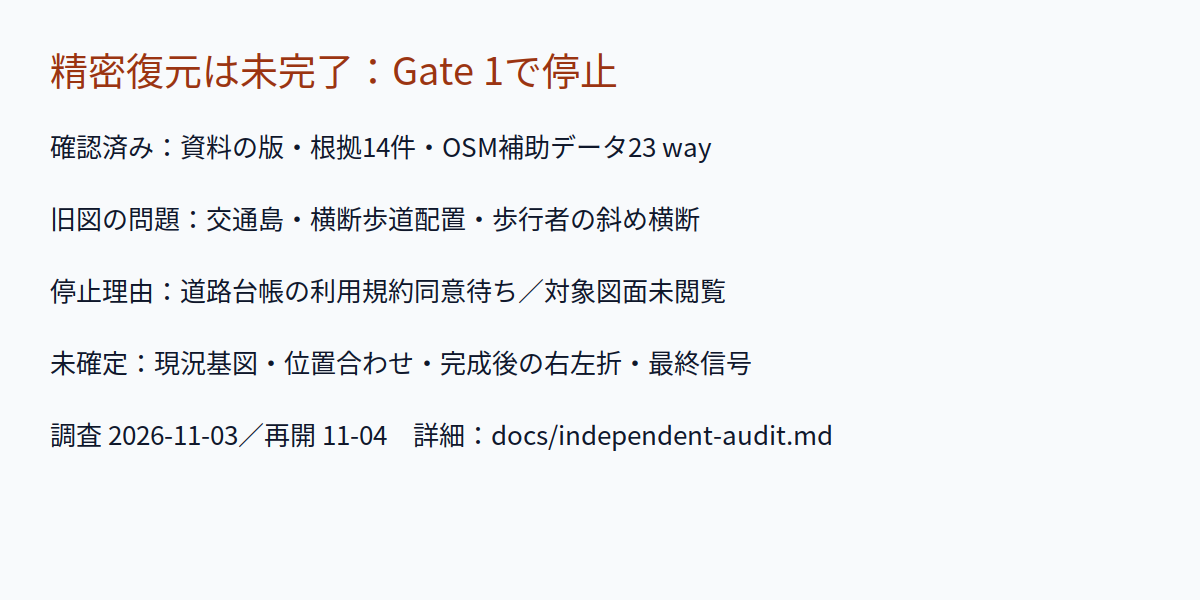
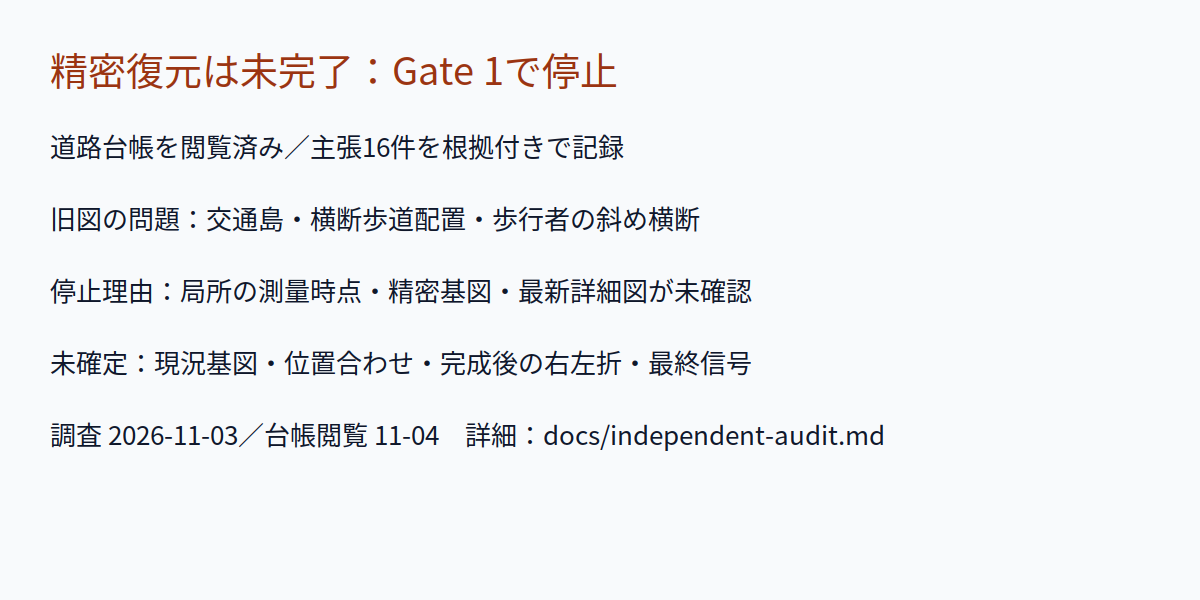
Record approved road-ledger inspection and updated source blockers

Changed region(s): [[0.0308, 0.21, 0.6167, 0.27], [0.1542, 0.45, 0.6475, 0.51], [0.2158, 0.69, 0.74, 0.75]]

diff --git a/scripts/build_audit.py b/scripts/build_audit.py
@@ -24,11 +24,11 @@ def main():
     if errors:raise ValueError(errors)
     OUT.mkdir(exist_ok=True)
     notice('evidence-status','精密復元は未完了：Gate 1で停止',[
-        '確認済み：資料の版・根拠14件・OSM補助データ23 way',
+        '道路台帳を閲覧済み／主張16件を根拠付きで記録',
         '旧図の問題：交通島・横断歩道配置・歩行者の斜め横断',
-        '停止理由：道路台帳の利用規約同意待ち／対象図面未閲覧',
+        '停止理由：局所の測量時点・精密基図・最新詳細図が未確認',
         '未確定：現況基図・位置合わせ・完成後の右左折・最終信号',
-        '調査 2026-11-03／再開 11-04　詳細：docs/independent-audit.md'
+        '調査 2026-11-03／台帳閲覧 11-04　詳細：docs/independent-audit.md'
     ],'partial')
     notice('05-signal-phases-2018','旧信号模式図を撤回しました',[
         '原資料にない斜め横断と、不整合のある車両矢印を削除。',
@@ -42,6 +42,6 @@ def main():
         '基準点・変換係数・残差は未計測。誤差ゼロではありません。',
         '詳細：docs/independent-audit.md／data/gates.json'
     ],'withdrawn')
-    (OUT/'index.html').write_text('''<!doctype html><html lang="ja"><meta charset="utf-8"><meta name="viewport" content="width=device-width"><title>二ツ橋1号交差点：検証状況</title><style>body{font-family:system-ui;margin:24px;max-width:1200px}img{width:100%;height:auto}p{line-height:1.7}</style><h1>精密復元は未完了</h1><p>道路台帳の対象図面は未閲覧です。以下は検証状況と旧図の撤回通知です。</p><p><a href="../independent-audit.md">調査記録</a> ／ <a href="../movement-review.md">動線・信号</a></p>'''+''.join(f'<p><a href="{n}.svg"><img src="{n}.png" alt="{label}"></a></p>' for n,label in [('evidence-status','検証状況'),('05-signal-phases-2018','信号図撤回'),('06-official-2026-schematic','完成図撤回')])+ '</html>')
+    (OUT/'index.html').write_text('''<!doctype html><html lang="ja"><meta charset="utf-8"><meta name="viewport" content="width=device-width"><title>二ツ橋1号交差点：検証状況</title><style>body{font-family:system-ui;margin:24px;max-width:1200px}img{width:100%;height:auto}p{line-height:1.7}</style><h1>精密復元は未完了</h1><p>道路台帳は閲覧済みですが、精密基図と最新詳細図は未確定です。以下は検証状況と旧図の撤回通知です。</p><p><a href="../independent-audit.md">調査記録</a> ／ <a href="../movement-review.md">動線・信号</a></p>'''+''.join(f'<p><a href="{n}.svg"><img src="{n}.png" alt="{label}"></a></p>' for n,label in [('evidence-status','検証状況'),('05-signal-phases-2018','信号図撤回'),('06-official-2026-schematic','完成図撤回')])+ '</html>')
 
 if __name__=='__main__':main()

diff --git a/docs/road-ledger-review.md b/docs/road-ledger-review.md
@@ -1,0 +1,37 @@
+# 道路台帳閲覧後の確認 — 2026-11-04
+
+## 実施内容
+
+ユーザー承認を受け、よこはまのみち利用条件へ同意した。境界調査図入口（mid=17）から表示マップを「平面図・補正図・別図・補正別図」（mid=67）へ切替。同じ条件のレイヤー選択に伴う同意後、公共施設「三ツ境支援学校」の検索結果から地図へ入れた。前回の空白検索を回避するための不正な経路や内部APIは使用していない。
+
+## 再現できる参照位置
+
+| 表示 | UIから確認した位置／URL |
+|---|---|
+| 平面図・交差点北寄り | https://wwwm.city.yokohama.lg.jp/yokohama/Map?mid=67&mps=500&mtp=ykmichi&mpx=139.4964&mpy=35.47055&gprj=3 |
+| 平面図・駅側／地下道階段付近 | https://wwwm.city.yokohama.lg.jp/yokohama/Map?mid=67&mps=500&mtp=ykmichi&mpx=139.4968047761013&mpy=35.47026909644335&gprj=3 |
+| 補正図 | 北寄り表示で補正図を選択。URLのmclは220,50,50,50 |
+| 別図 | 北寄り表示で別図を選択。mclは230,60,60,60 |
+| 別図補正図 | 駅側表示で別図補正図を選択。mclは240,70,70,70 |
+
+表示は1/500。これは画面の縮尺設定で、測定精度や印刷精度の保証ではない。地図中心の緯度経度も新たな測量基準点ではない。
+
+## 目視確認した事実と限界
+
+平面図には、中原街道に沿う細長い道路構造、南端で曲がる地上道路、相模鉄道の表示、歩行者専用道路の文字と階段記号が描かれている。これにより、車道本線・地上道路・歩行者経路・鉄道を別構造として照合する方針を支持できる。ただし、線の重なりだけで上下関係・進入規制を確定していない。
+
+補正図・別図・別図補正図は、読み込み表示が消えた後も、今回の参照範囲では枠線以外の道路線を確認できなかった。「図面が存在しない」「未改良である」とは結論しない。図郭全体、配信状態、資料の存在は別途確認が必要。
+
+台帳画面には対象局所の測量・補正年月が表示されなかった。サービス更新時点（E3）だけで、2026年工事の完成・切替を反映した図と認定しない。新設道路と台帳の接続対応、交通島改良後の輪郭は未確定。
+
+## 市の用語説明から得た制約
+
+E11の公式説明は、平面図が測量時の現況を記録する一方、その後に現況が変わる場合があるとしている。区域線図は管理区域を示す別資料。別図は、同じ位置に別の道路認定がある場合の図であり、任意の立体構造を全て収録する保証ではない。
+
+また、市はこのシステムで正確な縮尺表示ができず、画面から現況幅員を確認できないとしている。画面pxと縮尺ラベルだけから道路縁座標・幅員・曲率を精密測定する方法は採用しない。
+
+## Gate判定
+
+**閲覧障害と同意待ちは解消。Gate 1は引き続き未通過。** 資料の時点を確認した座標基図、独立照合できる最新現況、新設道路接続部の最新詳細計画が未取得。測量精度のある完成図を描く段階へは進めない。
+
+今回は公式地図の画像・トレース・画面から読み取った座標列を公開保存していない。閲覧への同意は複製・使用の承認と区別する。問い合わせ事項は [source-request.md](source-request.md)。

diff --git a/sources/source-register.md b/sources/source-register.md
@@ -1,6 +1,6 @@
 # Source register
 
-Last reviewed: 2026-11-03 (independent audit; see dated status below)
+Last reviewed: 2026-11-04 (independent audit; see dated status below)
 
 Authoritative register of sources to check before making claims about the Futatsubashi / Mitsukyo No.1 intersection and the first-phase land-readjustment works.
 
@@ -279,7 +279,7 @@ This section supersedes older “current” labels above. A listed source is not
 | E3 | Smartphone update page says 2026-10-15 | Service update date ≠ survey date at this site |
 | E4 | Planning lines 2026-04-03; road-ledger layer creation 2025-10-03 | R-Mappy layers are not necessarily as fresh as よこはまのみち |
 | E2 | Desktop selector blank; one reload gives `MapWithCtModel` error; smartphone search also empty | Not classified as a bot block |
-| E8 | Direct road-ledger information entrance reached; “同意する” not clicked | Explicit terms-acceptance confirmation required; map contents not read |
+| E8/E10 | Terms accepted 2026-11-04; target plan layer mid=67 visually read | Local survey/revision date and precise base not established |
 | F4 | Fresh bounded OSM API response obtained | Snapshot corroboration only; source edit timestamps are not site survey dates |
 | F5 | GSI standard tiles inspected transiently | New road absent in this tile sample; cannot certify 2026 construction state |
 
@@ -295,3 +295,13 @@ This section supersedes older “current” labels above. A listed source is not
 | F7 | [OSM licence](https://www.openstreetmap.org/copyright) | © OpenStreetMap contributors / ODbL |
 
 No official/GSI imagery or traced official geometry is committed in this audit. No permission to reproduce road-ledger linework is assumed from viewing permission. E8's map type is boundary-survey information within よこはまのみち; selecting the road-ledger plan layer is still required after access.
+
+
+## 2026-11-04 follow-up (supersedes terms-wait status)
+
+E8 terms accepted under user approval. E10 target road-ledger plan visually inspected; no map imagery or traced geometry published. Plan/correction/separate/separate-correction views checked within stated viewports. Blank correction views do not prove source absence. See [ledger review](../docs/road-ledger-review.md).
+
+- E10: https://wwwm.city.yokohama.lg.jp/yokohama/Map?mid=67&mps=500&mtp=ykmichi&mpx=139.4964&mpy=35.47055&gprj=3
+- E11: https://wwwm.city.yokohama.lg.jp/yokohama/yokohama/Content/pages/links/5_michi/yougo.html — sections 2,3,6,7 distinguish survey-time conditions, boundaries, separate drawings and screen-measurement limitations.
+
+Viewing is no longer the blocker. Gate 1 still lacks a dated, precise existing-condition base. Latest detailed project/as-built information and publication terms need confirmation. A concrete, unsent [source request](../docs/source-request.md) is prepared.

diff --git a/docs/source-request.md b/docs/source-request.md
@@ -1,0 +1,16 @@
+# 一次資料の提供・利用条件についての問い合わせ案
+
+未送信。送信先候補は横浜市二ツ橋北部土地区画整理事務所（A1掲載）。台帳の測量時点・複製使用条件については道路調査課等の所管案内も依頼する。問い合わせ者の氏名・住所・個人情報はこの公開案に含めない。
+
+件名：二ツ橋1号交差点の現況・完成計画図等の閲覧について
+
+二ツ橋北部三ツ境下草柳線等沿道地区第1期地区の1号交差点について、完成後の道路接続と歩行者動線を正確に理解するため、以下の公開資料または閲覧・提供方法を教えてください。
+
+1. 2026年8月工事説明会資料の完成イメージ（印刷20ページ）に対応する、最新の交差点詳細平面図。改定年月、縮尺、座標系、道路縁・交通島・横断歩道・歩道・自転車通行空間が分かるものを希望します。
+2. 第7回事業計画変更の内容、決定・公表状況と、1号交差点の形状に変更があるか。現在公開されている事業計画図は内部表記が2024年10月のため、最新版との対応を確認したいです。
+3. 中原街道本線、両側道、駅側既存道路、新設道路、歩行者地下通路・階段の現況と上下関係を確認できる図、および対象部分の測量・補正年月。よこはまのみちのサービス更新日と現地測量日が同じかも確認したいです。
+4. 開通時の方向別通行規制、歩行者・自転車の通行方法、公開可能な信号計画。2018年の信号検討案と最終計画の対応が分かるものがあればお願いします。
+5. 工事中の切替状況と開通予定／実施状況を確認する公式資料。
+6. 公開GitHubリポジトリで、原図を再配布せず、出典・不確実性を明示して編集可能な説明図を作る場合の利用条件。道路台帳等を使う際の複製・使用承認の要否と、必要な申請先を教えてください。
+
+公開資料へのURLや、窓口閲覧等の手順だけでも構いません。個別の設計図等が公開できない場合は、代わりに確認できる資料をご案内ください。

diff --git a/docs/independent-audit.md b/docs/independent-audit.md
@@ -26,7 +26,9 @@ URL、取得状態、資料日付、PDFハッシュは [evidence.json](../data/e
 | C3 PDF p.3 | 2018年の5群の信号検討案 | 最終現示・秒数ではない |
 | E3/E4 | 台帳サービス更新日とRマッピー台帳レイヤーの作成日に差 | 更新日と現地測量日を区別 |
 
-## 現況資料取得の到達点
+## 現況資料取得の到達点（11月3日時点の履歴）
+
+**11月4日追記：同意・対象平面図の閲覧は完了。[閲覧後の記録](road-ledger-review.md) が現状。以下の同意待ち・未閲覧は当初の履歴として残す。**
 
 よこはまのみちのマップ選択は空白で、1回の再読込後も `MapWithCtModel` エラー。スマートフォン版検索も空白だった。これは当該ブラウザでの観測で、市サイト全体の障害やbot拒否とは断定しない。
 
@@ -59,7 +61,7 @@ B1 PDF p.41では新設道路側・既存道路側・両側道側の横断脚を
 
 [data/gates.json](../data/gates.json) に記録。Gate 1以後は未通過。OSMの補助確認や資料読解は、後段ゲートの合格を意味しない。
 
-1. 利用規約同意後、道路台帳の対象範囲・版・道路縁と区域境界・座標系を確認する。
+1. 同意・対象平面図閲覧は完了。対象局所の測量年月と精密な座標基図・最新現況との対応を確認する。
 2. 第7回変更内容と最新の交差点詳細図の版を同定する。取得できなければ事務所への確認が必要。
 3. 複数基準点と独立検査点で位置合わせ。入力解像度・線幅から許容誤差を決め、残差を記録する。
 4. 接続、許可・禁止、供用状態、信号を別属性で方向別に確認する。

diff --git a/README.md b/README.md
@@ -5,6 +5,8 @@
 既存の完成模式図と信号模式図には原資料との不一致があり、撤回通知へ置換しました。現況・完成後の通行案内として使わないでください。
 
 - [独立監査・停止理由・再開条件](docs/independent-audit.md)
+- [道路台帳の閲覧結果と制約](docs/road-ledger-review.md)
+- [資料の問い合わせ案（未送信）](docs/source-request.md)
 - [道路・構造物の候補ID台帳](docs/road-inventory.md)
 - [方向別動線と信号の確認状況](docs/movement-review.md)
 - [資料登録簿](sources/source-register.md) / [調査計画](docs/investigation-plan.md)
@@ -18,7 +20,7 @@
 
 公式資料は駅側道路と新設道路の接続、交通島、横断歩道・信号の整備方針を示します。最新の詳細平面図、最終の右左折規制・信号現示は未取得です。2018年検討案は歴史資料として扱います。
 
-道路台帳は利用規約の同意画面まで到達し、同意未操作・対象図面未閲覧です。公開計画図は内部改定が2024年10月で、第7回変更内容も今回未取得。位置合わせの基準点・残差は未計測です。
+2026年11月4日に利用規約へ同意し、対象道路台帳平面図を閲覧しました。ただし、対象局所の測量・補正時点と精密座標基図は未確認です。公開計画図は内部改定が2024年10月で、第7回変更内容も今回未取得。位置合わせの基準点・残差は未計測です。
 
 ## 再生成・検証
 

diff --git a/docs/validation-report.md b/docs/validation-report.md
@@ -2,7 +2,7 @@
 
 対象は監査ビューと撤回通知。道路復元自体の合格記録ではない。
 
-- 証拠整合性検査：PASS。資料参照14件、ゲート状態、OSM参照nodeを確認。
+- 証拠整合性検査：PASS。資料参照16件、ゲート状態、OSM参照nodeを確認。
 - 回帰検査：7件PASS。ゲート飛越、未通過での図形公開、未計測残差の0化、不明出典、本線と地上・鉄道の誤接続、歩行者地下通路と階段の連続性を検査。
 - 完了要求モード：終了コード2を確認。復元完了とは判定していない。
 - SVG構造：3件PASS。図形・外部画像・矢印を含まない監査通知であることを別途検査。
@@ -25,3 +25,6 @@
 | 道路構造の検証 | PARTIAL：公式基図未取得、位置合わせ未実行 |
 
 Review iterations: 1。SVG modification iterations after review: 0。Production Review（監査通知のみ）: PASS。Architecture/road reconstruction review: PARTIAL。未解決の道路調査・成果物は `data/gates.json` の通り残る。
+
+
+台帳閲覧後の更新：主張16件・資料22件。停止理由は同意待ちから、測量時点・精密基図・最新詳細図の未確認へ更新。要約SVGも再生成し、全寸・縮小で確認。7件の回帰検査とSVG3件の検査を再実行。
